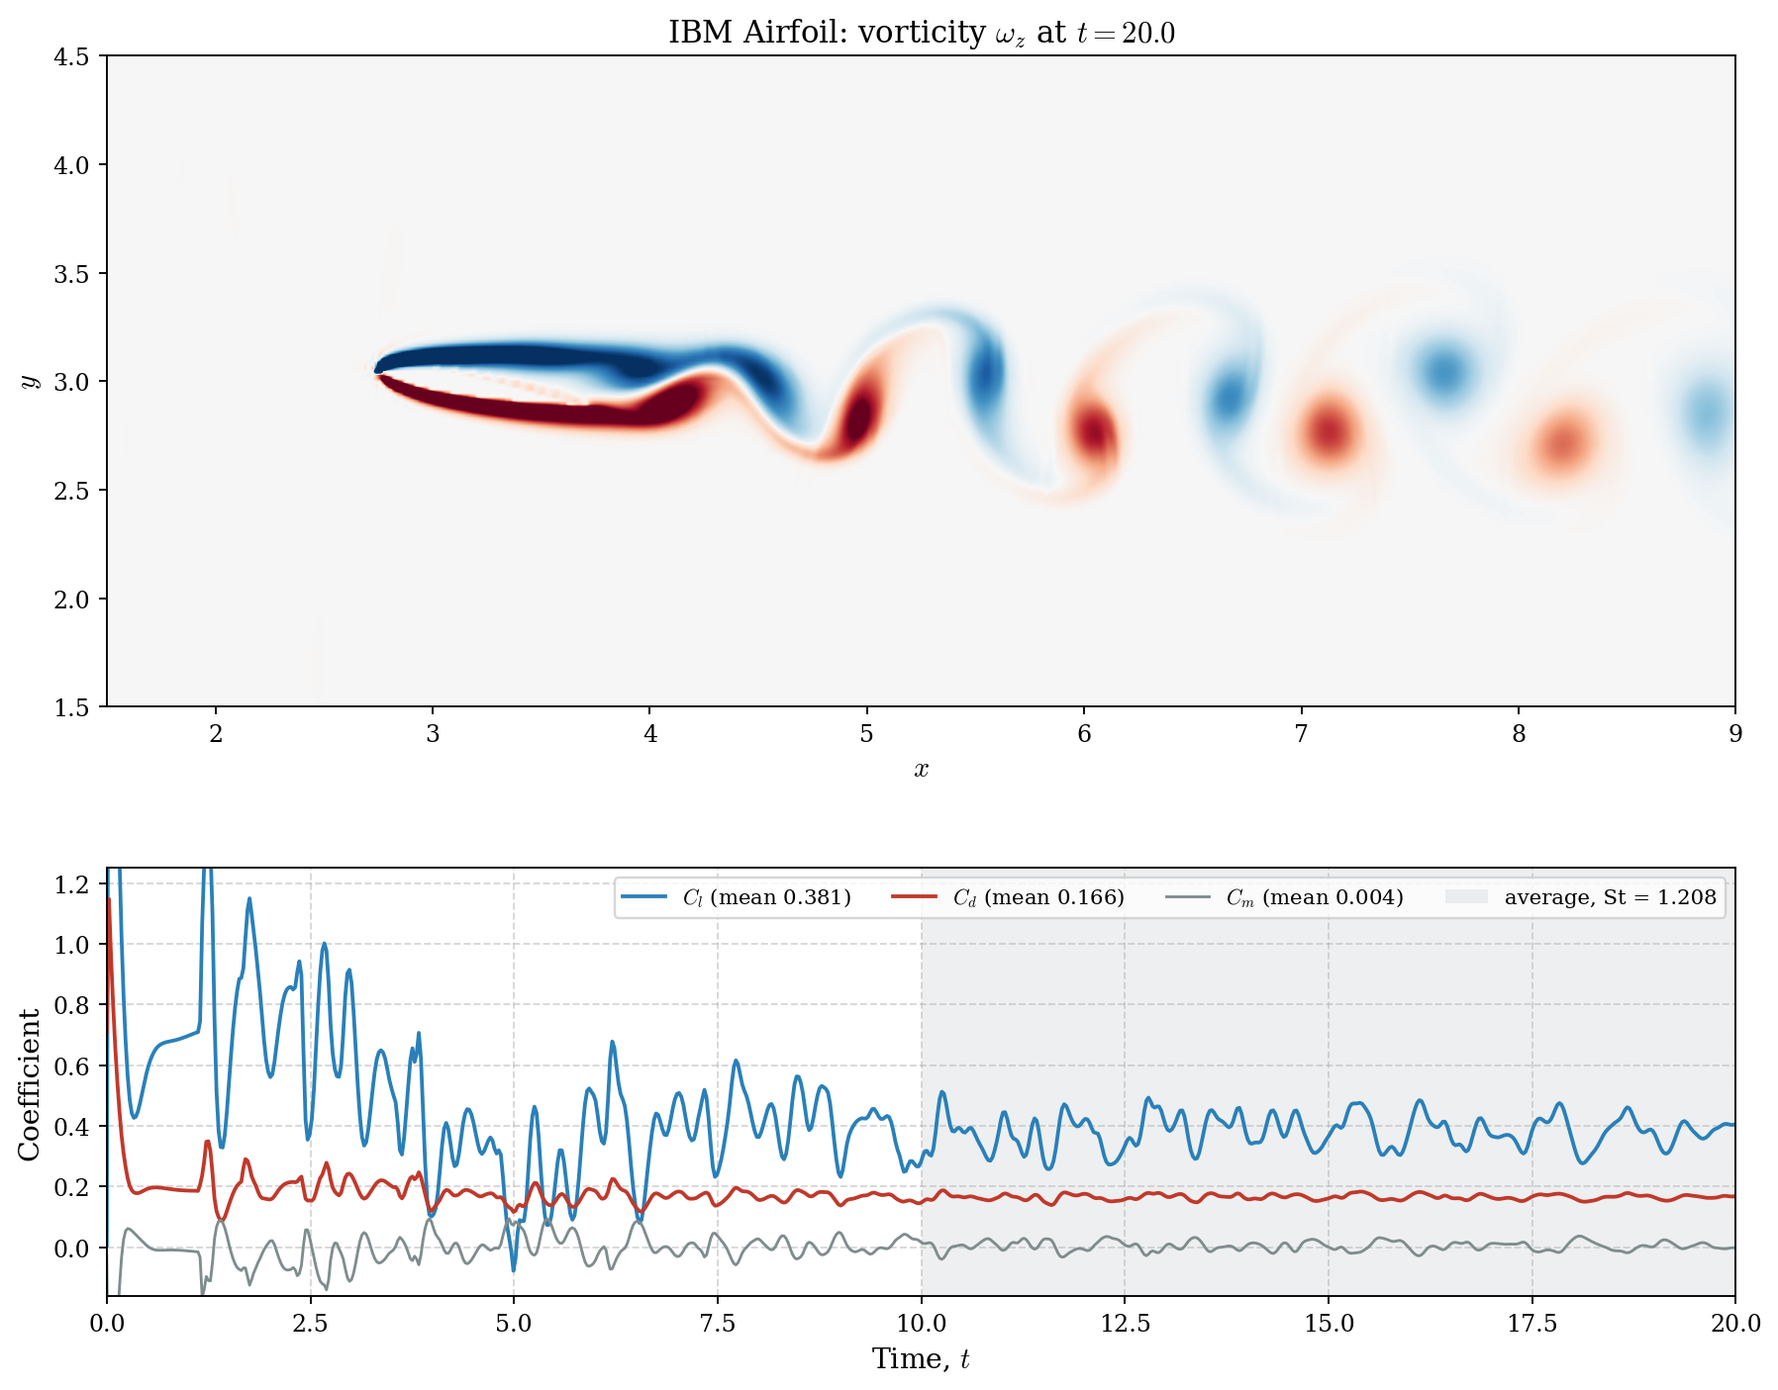
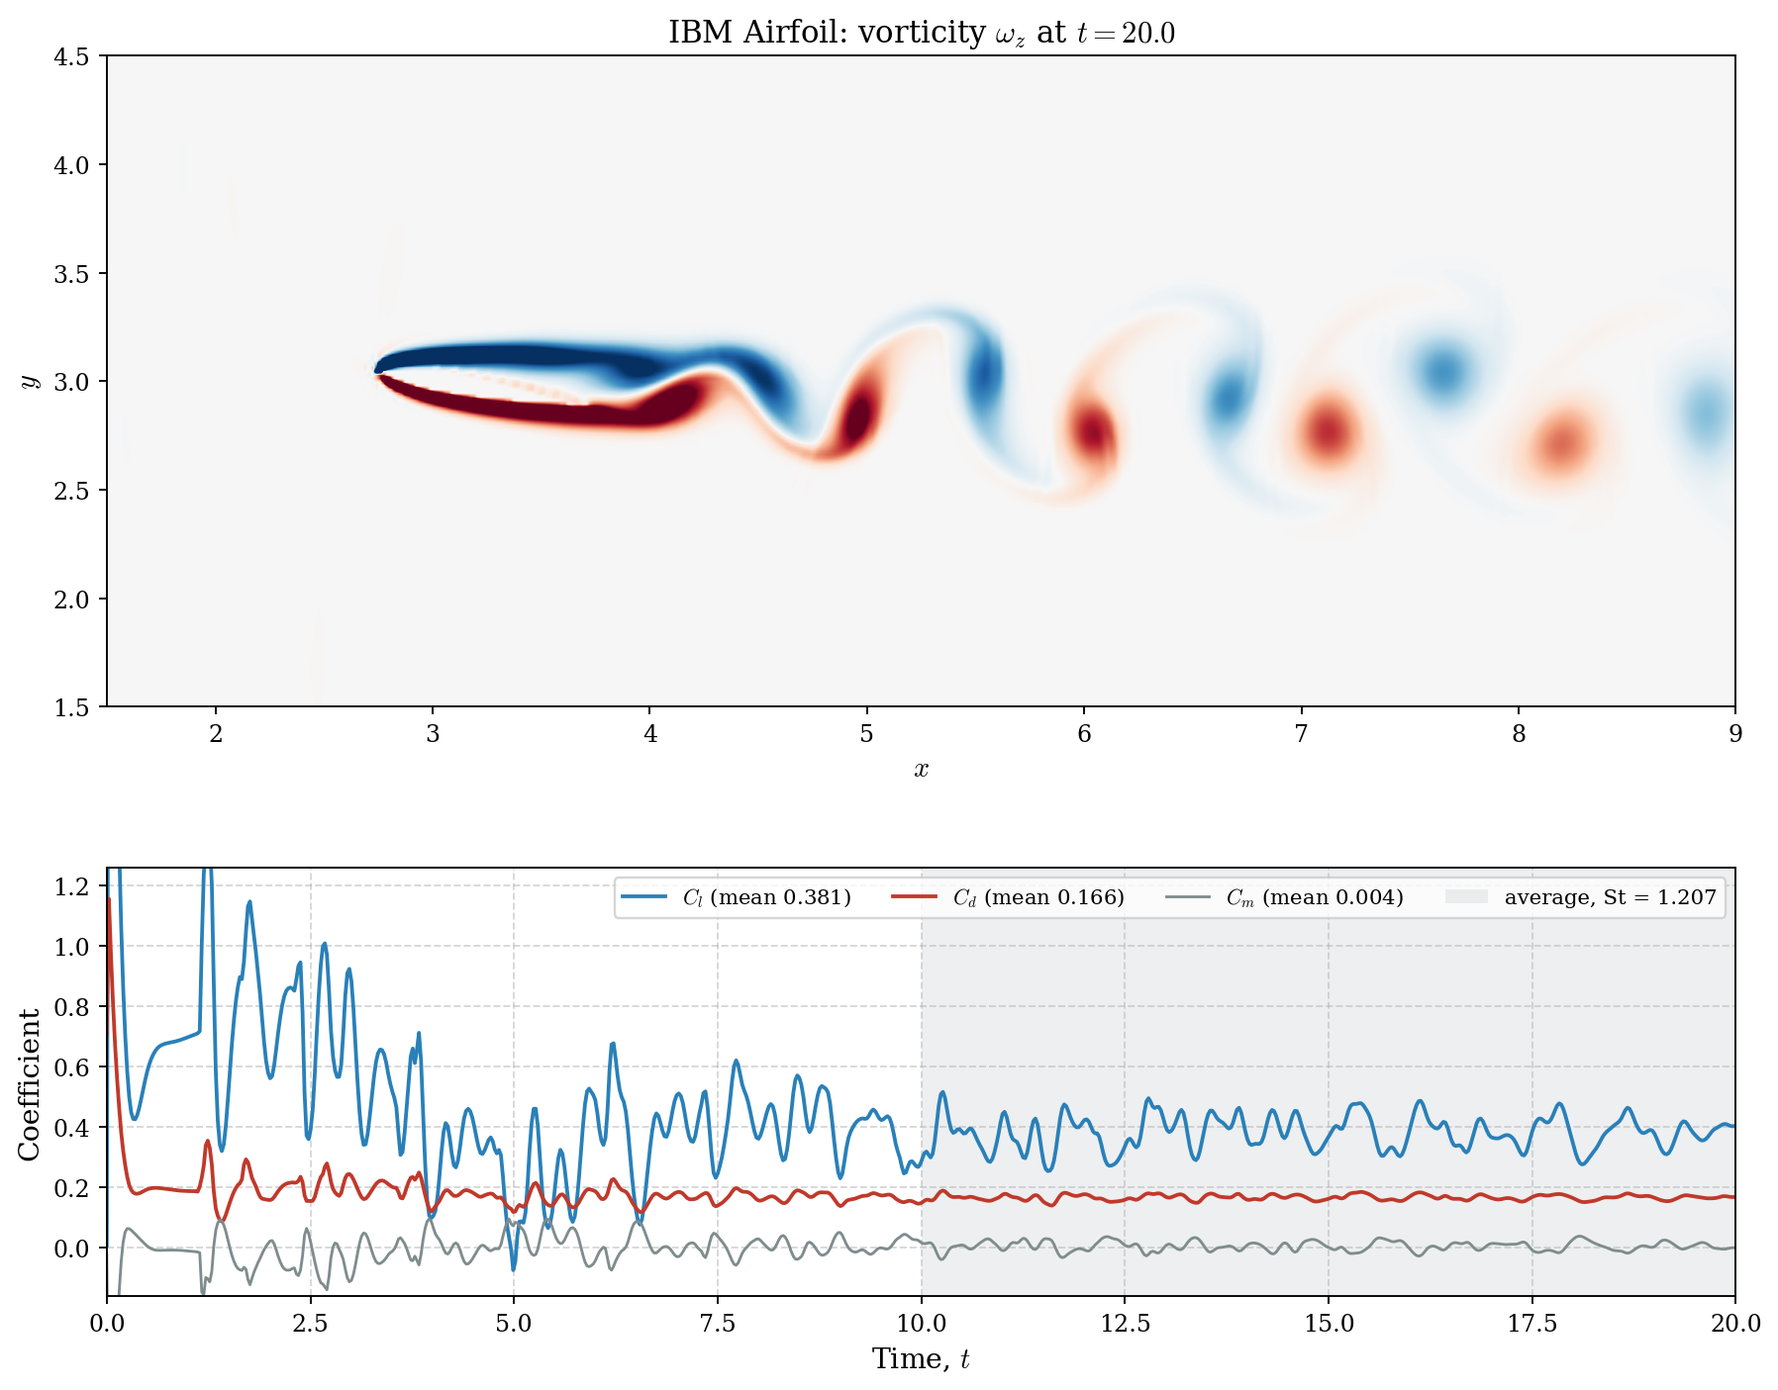
Validation: quick mode for the manufactured-solution study, V&V 20 docs, figures re-run on the final solver
mms.py runs a quick mode by default (64^2 / 48^3, lower bounds with 0.1 slack, no upper bound) and --full (128^2 /
96^3, the bands as fixed, the Euler first-order diagnostic); run_all has mms and mms_full. The testing page gets the
validation-uncertainty section (E, U_val, not assessable without a GCI) with its table and figure, the refreshed
GCI table and the page of the manufactured solutions its figure. The figures and numbers of the viscous studies
(Taylor-Green, Poiseuille, cavity, 3-D Taylor-Green, airfoils) are re-run with the doubled viscous weight; the
cylinder pages are untouched.

diff --git a/cases/validation/verification/mms.py b/cases/validation/verification/mms.py
@@ -1,7 +1,8 @@
 """Code verification by manufactured solutions: Euler and Navier-Stokes, 2-D and 3-D (Roache 2009, ch. 3).
 
-    python cases/validation/verification/mms.py             # results/validation/mms/
-    python cases/validation/verification/mms.py --docs      # also docs/img/mms.png
+    python cases/validation/verification/mms.py             # quick: up to 64^2 and 48^3, a few minutes
+    python cases/validation/verification/mms.py --full      # up to 128^2 and 96^3 (about 20 minutes), as in the docs
+    python cases/validation/verification/mms.py --full --docs      # also docs/img/mms.png
 
 A smooth, non-separable, periodic solution is manufactured for each case (cases/manufactured_solution*/, written by
 `python -m fenice.mms --write`): the source terms that make it an exact solution of the equations the solver
@@ -19,7 +20,10 @@ measured at a fixed time on a sequence of grids refined by 2 in every direction,
 Expected orders, fixed before the first run: 1.0 +- 0.1 for the first-order scheme in every norm; for MUSCL
 between 1.5 and 2.5 in L1 and L2 and between 1.0 and 2.5 in Linf (a TVD limiter clips the reconstruction at smooth
 extrema, which costs order, most of all in Linf; an order above 2.5 would be suspicious). The orders are those of the
-finest pair of grids. Figure: mms.png; table: results/validation/mms/mms_table.md.
+finest pair of grids. The quick mode stops at 64^2 and 48^3, where the errors are still pre-asymptotic (the first
+order from below, the 3-D MUSCL Linf a little above 2.5): it allows 0.1 below the lower bounds and enforces no
+upper bound, to catch gross regressions; the bands as fixed, and the diagnostic of the documented deviation, need
+--full. Figure: mms.png; table: results/validation/mms/mms_table.md.
 """
 import re
 import sys
@@ -32,7 +36,9 @@ from fenice.convergence import observed_orders
 
 STUDY = "mms"
 T_END = 0.5
-GRIDS = {2: (16, 32, 64, 128), 3: (12, 24, 48, 96)}
+GRIDS_FULL = {2: (16, 32, 64, 128), 3: (12, 24, 48, 96)}
+GRIDS_QUICK = {2: (16, 32, 64), 3: (12, 24, 48)}
+GRIDS = GRIDS_QUICK
 SCHEMES = {"MUSCL": "true", "1st order": "false"}
 NORMS = ("L1", "L2", "Linf")
 BANDS = {"1st order": {"L1": (0.9, 1.1), "L2": (0.9, 1.1), "Linf": (0.9, 1.1)},
@@ -135,7 +141,11 @@ def residual(sol, n, scheme, args):
 
 
 def main():
-    args = study.parser(__doc__.splitlines()[0]).parse_args()
+    ap = study.parser(__doc__.splitlines()[0])
+    ap.add_argument("--full", action="store_true", help="the fine grids too (128^2, 96^3) and the Euler diagnostic")
+    args = ap.parse_args()
+    global GRIDS
+    GRIDS = GRIDS_FULL if args.full else GRIDS_QUICK
     plt = study.use_style()
     sols = mms.default_solutions()
     failed = False
@@ -176,7 +186,9 @@ def main():
                 fit = {v: float(np.polyfit(np.log(h), np.log(e[v]), 1)[0]) for v in names}
                 worst = min(pair, key=pair.get)
                 lo, hi = BANDS[scheme][norm]
-                ok = all(lo <= pair[v] <= hi for v in names)
+                # quick mode, to catch gross regressions: 0.1 slack below the lower bound (the coarse grids approach
+                # the order from below), no upper bound
+                ok = all(lo - (0.0 if args.full else 0.1) <= pair[v] <= (hi if args.full else np.inf) for v in names)
                 known = (sol.name(), scheme) in KNOWN
                 failed |= not ok and not known
                 curves[sol.name(), scheme, norm] = (h, np.max([e[v] for v in names], axis=0), pair[worst])
@@ -186,19 +198,19 @@ def main():
                       f"{curves[sol.name(), scheme, norm][1][-1]:.2e}   expected [{lo}, {hi}] "
                       f"{'OK' if ok else 'OUTSIDE (documented)' if known else 'OUTSIDE'}")
 
-    # diagnostic of the documented deviation: e = a h + b h^2 on the grids of the study and one finer
-    sol = next(s for s in sols if s.name() == "Manufactured Solution Euler")
-    grids = list(GRIDS[2]) + [2 * GRIDS[2][-1]]
-    errs = [run_error(sol, n, "1st order", args) for n in grids]
-    h = np.array([1.0 / n for n in grids])
-    print(f"      diagnostic, {sol.name()}, 1st order, L1 error on {grids}:")
-    for v in ("rho", "u", "v", "p"):
-        e = np.array([er[v]["L1"] for er in errs])
-        A = np.stack([h, h ** 2], axis=1)
-        a, b = np.linalg.lstsq(A, e, rcond=None)[0]
-        misfit = np.max(np.abs(A @ [a, b] / e - 1))
-        print(f"        {v:3s} pair orders " + " ".join(f"{o:.2f}" for o in observed_orders(h, e)) +
-              f";  e = {a:.3f} h {b:+.2f} h^2 (largest misfit {misfit:.0%})")
+    if args.full:   # diagnostic of the documented deviation: e = a h + b h^2 on the grids of the study and one finer
+        sol = next(s for s in sols if s.name() == "Manufactured Solution Euler")
+        grids = list(GRIDS[2]) + [2 * GRIDS[2][-1]]
+        errs = [run_error(sol, n, "1st order", args) for n in grids]
+        h = np.array([1.0 / n for n in grids])
+        print(f"      diagnostic, {sol.name()}, 1st order, L1 error on {grids}:")
+        for v in ("rho", "u", "v", "p"):
+            e = np.array([er[v]["L1"] for er in errs])
+            A = np.stack([h, h ** 2], axis=1)
+            a, b = np.linalg.lstsq(A, e, rcond=None)[0]
+            misfit = np.max(np.abs(A @ [a, b] / e - 1))
+            print(f"        {v:3s} pair orders " + " ".join(f"{o:.2f}" for o in observed_orders(h, e)) +
+                  f";  e = {a:.3f} h {b:+.2f} h^2 (largest misfit {misfit:.0%})")
 
     # table for the documentation
     lines = ["| case | scheme | norm | " + " | ".join(VARS) + " | expected | |", "|---|---|---|" + "---:|" * len(VARS) + "---|---|"]

diff --git a/cases/validation/run_all.py b/cases/validation/run_all.py
@@ -32,7 +32,8 @@ GROUPS = {
         "taylor_green": (["verification/taylor_green.py"], False),
         "taylor_green_animation": (["verification/taylor_green_animation.py"], False),
         "poiseuille": (["verification/poiseuille.py"], False),
-        "mms": (["verification/mms.py"], True),   # manufactured solutions, 2-D and 3-D; the 96^3 grids take minutes
+        "mms": (["verification/mms.py"], False),   # manufactured solutions, 2-D and 3-D, up to 64^2 / 48^3
+        "mms_full": (["verification/mms.py", "--full"], True),   # up to 128^2 / 96^3 (about 20 minutes), as in the docs
     },
     "benchmarks": {
         "shu_osher": (["benchmarks/shu_osher.py"], False),

diff --git a/docs/source/guide/testing.md b/docs/source/guide/testing.md
@@ -208,15 +208,15 @@ systematic refinement).</figcaption>
 | cavity, MUSCL | $\psi_{\min}$ | -0.1058, -0.1123, -0.1136 | 2.24 | 1.25 | 0.5 % | -0.1141 | 1.18 | Ghia (1982) -0.1139; fine - ref = +2.70e-04, inside the GCI band |
 | cavity, MUSCL | $u_{\min}$ on $x = 0.5$ | -0.2997, -0.3232, -0.3277 | 2.38 | 1.25 | 0.573 % | -0.3292 | 1.30 | Ghia (1982) -0.3273; fine - ref = -4.39e-04, inside the GCI band |
 | cavity, MUSCL | $v_{\max}$ on $y = 0.5$ | 0.2725, 0.2975, 0.3025 | 2.30 | 1.25 | 0.7 % | 0.3042 | 1.23 | Ghia (1982) 0.302; fine - ref = +5.14e-04, inside the GCI band |
-| cavity, MUSCL | $v_{\min}$ on $y = 0.5$ | -0.4073, -0.4447, -0.4519 | 2.38 | 1.25 | 0.663 % | -0.4543 | 1.30 | Ghia (1982) -0.4499; fine - ref = -1.94e-03, inside the GCI band |
+| cavity, MUSCL | $v_{\min}$ on $y = 0.5$ | -0.4074, -0.4447, -0.4519 | 2.38 | 1.25 | 0.663 % | -0.4543 | 1.30 | Ghia (1982) -0.4499; fine - ref = -1.94e-03, inside the GCI band |
 | cavity, 1st order | $\psi_{\min}$ | -0.08475, -0.09796, -0.1056 | 0.79 | 1.25 | 12.5 % | -0.1161 | 1.00 | Ghia (1982) -0.1139; fine - ref = +8.30e-03, inside the GCI band |
 | cavity, 1st order | $u_{\min}$ on $x = 0.5$ | -0.1982, -0.254, -0.2885 | 0.69 | 3 | 58.3 % | -0.3446 | 1.00 | Ghia (1982) -0.3273; fine - ref = +3.87e-02, inside the GCI band |
 | cavity, 1st order | $v_{\max}$ on $y = 0.5$ | 0.1934, 0.2426, 0.2716 | 0.76 | 1.25 | 19.2 % | 0.3133 | 1.00 | Ghia (1982) 0.302; fine - ref = -3.04e-02, inside the GCI band |
 | cavity, 1st order | $v_{\min}$ on $y = 0.5$ | -0.3193, -0.3829, -0.4177 | 0.87 | 1.25 | 12.6 % | -0.4597 | 1.00 | Ghia (1982) -0.4499; fine - ref = +3.22e-02, inside the GCI band |
-| IBM airfoil, Re = 1000 | $\overline{C_d}$, $2 \leq t \leq 6$ | 0.1492, 0.1788, 0.1712 | - | 3 | - | - | - | not monotone: no observed order, no GCI (more or finer grids are needed) |
-| IBM airfoil, Re = 1000 | $\overline{C_l}$, $2 \leq t \leq 6$ | 0.1094, 0.292, 0.3607 | 1.41 | 3 | 34.4 % | 0.402 | 1.00 | observed order 1.41 far from the formal 2: Fs = 3 |
+| IBM airfoil, Re = 1000 | $\overline{C_d}$, $2 \leq t \leq 6$ | 0.1492, 0.1791, 0.1713 | - | 3 | - | - | - | not monotone: no observed order, no GCI (more or finer grids are needed) |
+| IBM airfoil, Re = 1000 | $\overline{C_l}$, $2 \leq t \leq 6$ | 0.1091, 0.2923, 0.3622 | 1.39 | 3 | 35.8 % | 0.4054 | 1.00 | observed order 1.39 far from the formal 2: Fs = 3 |
 | 3-D Taylor-Green, Re = 1600 | $E_k(20)/E_k(0)$ | 0.2312, 0.2064, 0.1883 | -0.41 | 3 | - | - | - | apparent order -0.41 <= 0: the solutions do not converge on these grids, no GCI |
-| 3-D Taylor-Green, Re = 1600 | peak $\varepsilon$ | 0.01102, 0.01132, 0.01248 | -3.69 | 3 | - | - | - | DNS 512$^3$ 0.0127; fine - ref = -2.17e-04, no GCI band |
+| 3-D Taylor-Green, Re = 1600 | peak $\varepsilon$ | 0.01102, 0.01132, 0.01248 | -3.70 | 3 | - | - | - | DNS 512$^3$ 0.0127; fine - ref = -2.17e-04, no GCI band |
 
 What the table says:
 
@@ -229,13 +229,61 @@ What the table says:
 * **Cavity, first order.** The apparent orders are 0.7 to 0.9 and the bands 12 to 58 %: the first-order scheme
   needs far finer grids, which is why the second-order scheme is the default.
 * **IBM airfoil.** The mean drag is not monotone over 192×96, 384×192, 768×384 and the mean lift converges at
-  order 1.4 with a 34 % band: a staircase body on an impulsive start is not in the asymptotic range on these
+  order 1.4 with a 36 % band: a staircase body on an impulsive start is not in the asymptotic range on these
   grids, and the table says so. The AMR run lies between the two finest uniform meshes.
 * **3-D Taylor-Green.** The energy at $t = 20$ and the peak dissipation do not converge on 32³, 64³ and 96³
   (negative apparent orders): the vortex is under-resolved, the peak rises towards the DNS value 0.0127
   (0.0125 at 96³) but no band can be given.
 
+### Validation uncertainty (`benchmarks/vv20.py`)
+
+Verification says how large the numerical error is; validation asks whether the model is right. Following ASME V&V 20 as
+presented by Roache (2009, chapter 11), the comparison error $E = S - D$ of the simulation value $S$ and the
+data value $D$ is the sum of the modelling error and of the errors of the numerics, the inputs and the data, so the
+modelling error lies in the interval $E \pm U_{val}$ with
+
+$$U_{val} = \sqrt{U_{num}^2 + U_{input}^2 + U_D^2},$$
+
+each term a 95 % uncertainty ($U_{num}$ is the fine-grid GCI of the table above times $|S|$; a standard data
+uncertainty is expanded with $k = 2$, and a range of values is a rectangular distribution of half-width $A$, whose
+standard uncertainty is $A/\sqrt3$). If $|E| \le U_{val}$ the modelling error is not larger than the noise level set
+by these uncertainties, so tuning the model would not be justified; if $|E| \gg U_{val}$ the modelling error is about $E$
+and the model is to blame. Here "$\gg$" is $|E| \ge 3\,U_{val}$ (our choice, the book gives none), and in between the
+result is *indeterminate*. A quantity without a valid GCI has no $U_{num}$: it is **not assessable**, and no other
+estimate is substituted.
+
+<figure>
+<img src="{{root}}img/vv20.png" style="width:100%">
+<figcaption>Comparison error as a percentage of the reference value, with the interval $\pm U_{val}$, for the
+benchmarks that have a reference value. A hollow marker has no numerical uncertainty (not assessable).</figcaption>
+</figure>
+
+| quantity | $S$ | $D$ | $E = S - D$ | $U_{num}$ | $U_{val}$ | $|E|/U_{val}$ | reading |
+|---|---:|---:|---:|---:|---:|---:|---|
+| cavity, MUSCL: $\psi_{\min}$ | -0.1136 | -0.1139 | +2.70e-04 | 5.68e-04 | 5.68e-04 | 0.47 | within the noise level |
+| cavity, MUSCL: $u_{\min}$ on $x = 0.5$ | -0.3277 | -0.3273 | -4.39e-04 | 1.88e-03 | 1.88e-03 | 0.23 | within the noise level |
+| cavity, MUSCL: $v_{\max}$ on $y = 0.5$ | 0.3025 | 0.302 | +5.14e-04 | 2.12e-03 | 2.12e-03 | 0.24 | within the noise level |
+| cavity, MUSCL: $v_{\min}$ on $y = 0.5$ | -0.4519 | -0.4499 | -1.94e-03 | 2.99e-03 | 2.99e-03 | 0.65 | within the noise level |
+| 3-D Taylor-Green, Re = 1600: peak $\varepsilon$ | 0.01248 | 0.0127 | -2.17e-04 | - | - | - | not assessable (no numerical uncertainty) |
+
+* **Cavity against Ghia.** For all four extrema $|E| < U_{val}$ ($|E|/U_{val}$ between 0.2 and 0.65): the remaining
+  difference to the benchmark is smaller than the numerical uncertainty of the 128² solution, so the cavity
+  gives no ground to doubt the model (incompressible-limit compressible Navier-Stokes) and a finer grid, not a
+  model change, is what would sharpen the comparison.
+* **3-D Taylor-Green peak dissipation against the DNS.** Not assessable: the grid sequence does not converge (see
+  the GCI table), so there is no numerical uncertainty to compare $E$ with. The difference of 1.7 % to the DNS
+  value is a fact about the 96³ run, not yet evidence for or against the model.
+* **Assumptions that make $U_{val}$ a lower bound.** $U_{input} = 0$: the inputs (Reynolds number, lid speed,
+  domain) are taken as exact, the strong-model assumption. $U_D = 0$: Ghia's tables and the DNS value come without an
+  uncertainty, and a benchmark computed by another code is a gray area for validation (Roache, sec. 10.10).
+  A data uncertainty would raise $U_{val}$ and push more comparisons to "within the noise level".
+* **Not done.** The cylinder against the literature values would need three grids of the long unsteady run, whose lift
+  is not stationary at $t = 80$, and the literature values are for an unbounded domain (the 10 % blockage is a
+  modelling difference, not a numerical one); it is left out rather than given an unreliable $U_{num}$.
+
 ### References
 
 * Roache, P. J. (2009). *Fundamentals of Verification and Validation*. Hermosa Publishers,
   Socorro, New Mexico. ISBN 978-0-913478-12-7.
+* ASME (2009). *Standard for Verification and Validation in Computational Fluid Dynamics and Heat Transfer*,
+  ASME V&V 20-2009. American Society of Mechanical Engineers.

diff --git a/docs/source/cases/manufactured-solution.md b/docs/source/cases/manufactured-solution.md
@@ -68,7 +68,8 @@ error cannot hide below the convective one.
 
 ```powershell
 build\release\fenice.exe --case "Manufactured Solution" --set nx=64 --set ny=64
-python cases\validation\verification\mms.py            # the verification study
+python cases\validation\verification\mms.py            # the verification study (quick mode)
+python cases\validation\verification\mms.py --full     # all grids, the bands as fixed
 python -m fenice.mms --write                           # regenerate the case files
 python -m fenice.mms --check                           # are the committed case files what the generator writes?
 ```
@@ -84,6 +85,11 @@ rules cannot matter, and are up to 34 000 characters long. Do not edit them by h
 $1.0 \pm 0.1$ in every norm; for MUSCL, between 1.5 and 2.5 in $L_1$ and $L_2$ and between 1.0 and 2.5 in $L_\infty$
 (a TVD limiter clips the reconstruction at smooth extrema, which costs order, most of all in $L_\infty$; above
 2.5 would be suspicious). The orders are those of the finest pair of grids.
+
+The default run is a **quick mode** (grids up to 64² and 48³, a few minutes) meant to catch gross regressions:
+it allows 0.1 below the lower bounds and enforces no upper bound, because the coarse grids are still pre-asymptotic.
+`--full` adds 128² and 96³ (about 20 minutes), enforces the bands as fixed above and runs the diagnostic below; the
+figure and the table of this page come from it.
 
 0. **The case files are what the generator writes.**
 1. **Transcription of the source.** On a uniform state, one Explicit Euler step must move every cell by

diff --git a/docs/source/cases/airfoil.md b/docs/source/cases/airfoil.md
@@ -65,12 +65,12 @@ uniform 192×96 and 768×384 meshes, and the cost of the three runs on 16 OpenMP
 | run | cells | wall time | rms error of $C_d$ | rms error of $C_l$ |
 |---|---:|---:|---:|---:|
 | uniform 192×96 | 18 432 | 2.2 s | 0.034 | 0.36 |
-| uniform 768×384 | 294 912 | 211 s | (reference) | (reference) |
-| AMR, 192×96 + 2 levels | 55 296 | 22 s | 0.007 | 0.037 |
+| uniform 768×384 | 294 912 | 244 s | (reference) | (reference) |
+| AMR, 192×96 + 2 levels | 52 224 | 22 s | 0.007 | 0.039 |
 
 The errors are rms differences of $C_d(t)$ and $C_l(t)$ from the 768×384 run over
 $1 \le t \le 6$ (this is the impulsive start of the flow, not a statistically steady state).
-AMR reproduces the loads of the fine mesh with 19 % of its cells and 10 % of its time. The
+AMR reproduces the loads of the fine mesh with 18 % of its cells and 9 % of its time. The
 base mesh alone misses most of the lift.
 
 ## Using your own airfoil

diff --git a/docs/source/cases/taylor-green-3d.md b/docs/source/cases/taylor-green-3d.md
@@ -58,7 +58,7 @@ is all a kinetic-energy history needs.
 <img src="{{root}}img/taylor_green_3d_validation.png" style="width:100%">
 <figcaption>Left: kinetic energy. Right: total dissipation rate −dE<sub>k</sub>/dt from the monitor,
 the resolved physical part 2νζ (enstrophy) from the 32³ and 96³ snapshots, and the DNS peak.
-Peak dissipation: 0.0110 at t = 6.6 (32³), 0.0113 at t = 8.6 (64³) and 0.0125 at t = 8.3 (96³),
+Peak dissipation: 0.0110 at t = 6.4 (32³), 0.0113 at t = 8.5 (64³) and 0.0125 at t = 8.3 (96³),
 against 0.0127 at t ≈ 9 for the DNS; E<sub>k</sub>(20)/E<sub>k</sub>(0) = 0.23, 0.21 and 0.19.</figcaption>
 </figure>
 

diff --git a/docs/source/modules/AMR.md b/docs/source/modules/AMR.md
@@ -129,9 +129,9 @@ give $\eta = 0$.
 
 ## Immersed boundary, viscous terms and body force
 
-The [airfoil]({{root}}cases/airfoil.html#adaptive-mesh-refinement) case shows it: with 19 % of
+The [airfoil]({{root}}cases/airfoil.html#adaptive-mesh-refinement) case shows it: with 18 % of
 the cells of the uniform mesh at the body's resolution, AMR gives the same drag and lift
-history in 10 % of the time.
+history in 9 % of the time.
 
 The leaf residual `patch_residual` adds, when enabled, the viscous flux, a body force and
 the immersed-boundary forcing to the convective flux. Each leaf builds its solid mask,
